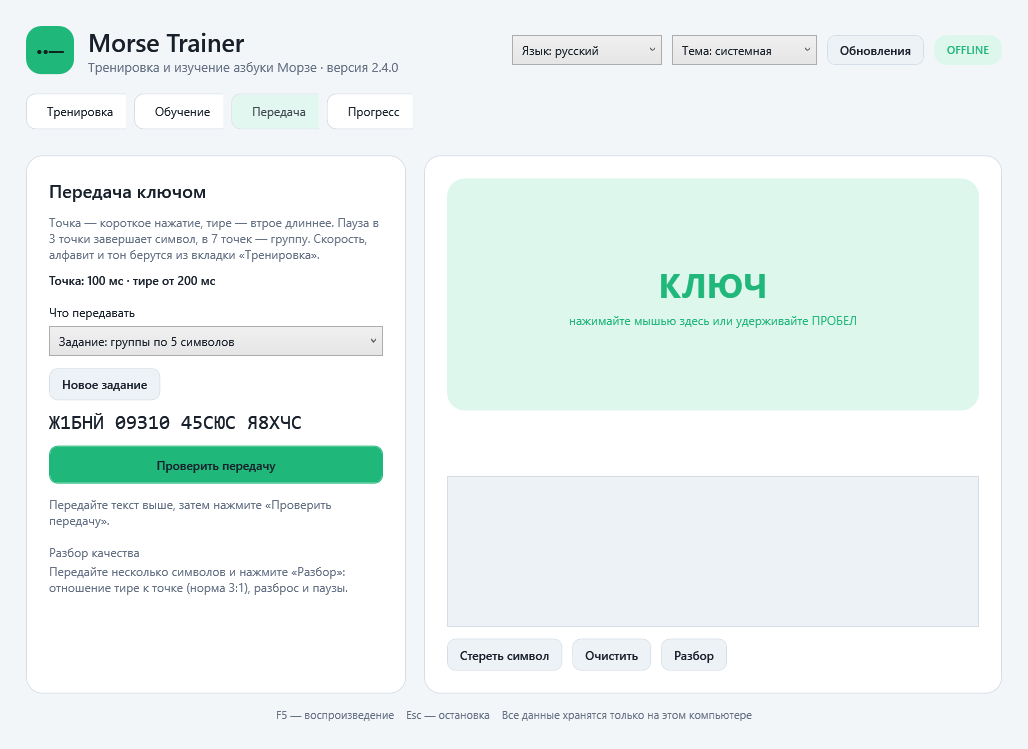
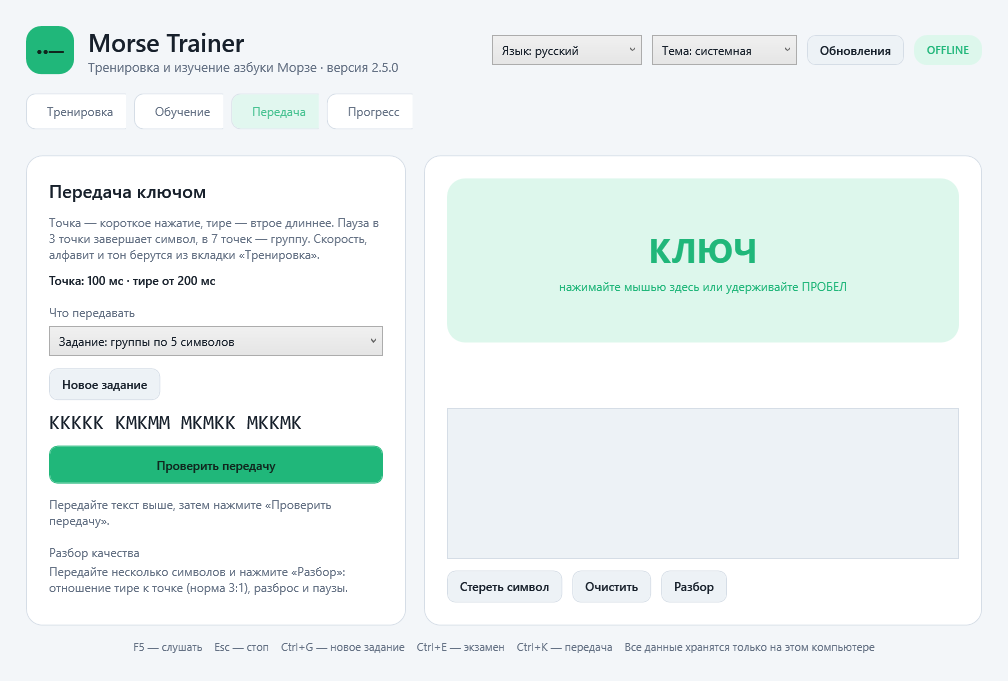
Translate learning card categories and refresh screenshots for 2.5.0
Раздел на карточке обучения («Русские буквы», «Цифры») переводится
(CategoryLabel через Texts.T), тест. Скриншоты окна из UI smoke 2.5.0:
светлая тема по-русски и тёмная по-английски, свёрнутая панель; три
экрана телефона из дымового теста на эмуляторе (уменьшены до 360×800).
README: таблицы скриншотов, горячие клавиши Ctrl+E/Ctrl+K/пробел.

diff --git a/tests/MorseTrainer.Tests/Program.cs b/tests/MorseTrainer.Tests/Program.cs
@@ -959,6 +959,9 @@ static void TestCustomChantsAndVoice()
         Assert(LearningCatalog.GetItems(0).First(item => item.Symbol == 'А').IsCustom && !LearningCatalog.GetItems(0).First(item => item.Symbol == 'Б').IsCustom,
             "Only the edited card is custom.");
         Assert(LearningCatalog.BuiltInChant('А') == "ай-даа", "Built-in chant must stay available.");
+        Texts.Apply(AppLanguage.English);
+        Assert(card.CategoryLabel == "Russian letters · custom chant", "Card category must follow the language: " + card.CategoryLabel);
+        Texts.Apply(AppLanguage.Russian);
     }
     finally
     {

diff --git a/src/MorseTrainer/Domain/LearningCatalog.cs b/src/MorseTrainer/Domain/LearningCatalog.cs
@@ -6,7 +6,7 @@ namespace MorseTrainer.Domain;
 public sealed record LearningSymbolItem(char Symbol, string Code, string Chant, string Category, bool IsCustom = false)
 {
     /// <summary>Подпись под напевом: раздел и пометка своего напева.</summary>
-    public string CategoryLabel => IsCustom ? Category + " · " + Texts.T("свой напев") : Category;
+    public string CategoryLabel => IsCustom ? Texts.T(Category) + " · " + Texts.T("свой напев") : Texts.T(Category);
 }
 
 public static class LearningCatalog

diff --git a/README.md b/README.md
@@ -64,7 +64,7 @@
 
 ## Скриншоты
 
-Снимки окна Windows делает дымовой UI-тест в CI (`docs/screenshots`, обновляются вручную из артефакта `MorseTrainer-Screenshots`).
+Снимки окна Windows делает дымовой UI-тест в CI (артефакт `MorseTrainer-Screenshots`), снимки телефона — дымовой тест на Android-эмуляторе (`MorseTrainer-Screenshots-Android`); в `docs/screenshots` они обновляются вручную.
 
 | Тренировка | Обучение |
 |---|---|
@@ -74,7 +74,17 @@
 |---|---|
 | ![Передача](docs/screenshots/keyer.png) | ![Прогресс](docs/screenshots/progress.png) |
 
-Английский интерфейс: [training-en.png](docs/screenshots/training-en.png).
+| Английский интерфейс, тёмная тема | Свёрнутая панель параметров |
+|---|---|
+| ![Training, dark](docs/screenshots/training-en.png) | ![Компактный вид](docs/screenshots/training-compact.png) |
+
+Ещё: [обучение на английском в тёмной теме](docs/screenshots/learning-en.png).
+
+Телефон (Android, снимки дымового теста на эмуляторе, язык системы — английский):
+
+| Тренировка | Обучение и курс | Прогресс |
+|---|---|---|
+| ![Phone training](docs/screenshots/phone-training.png) | ![Phone learning](docs/screenshots/phone-learning.png) | ![Phone progress](docs/screenshots/phone-progress.png) |
 
 ## Скачать готовую программу
 
@@ -96,8 +106,11 @@
 | Клавиша | Действие |
 |---|---|
 | `Ctrl+G` | Создать новое задание |
+| `Ctrl+E` | Экзамен |
+| `Ctrl+K` | Вкладка «Передача» |
 | `F5` | Воспроизвести или повторить |
 | `Esc` | Остановить воспроизведение |
+| `Пробел` | Ключ на вкладке «Передача» |
 
 ## Сборка на Windows
 
